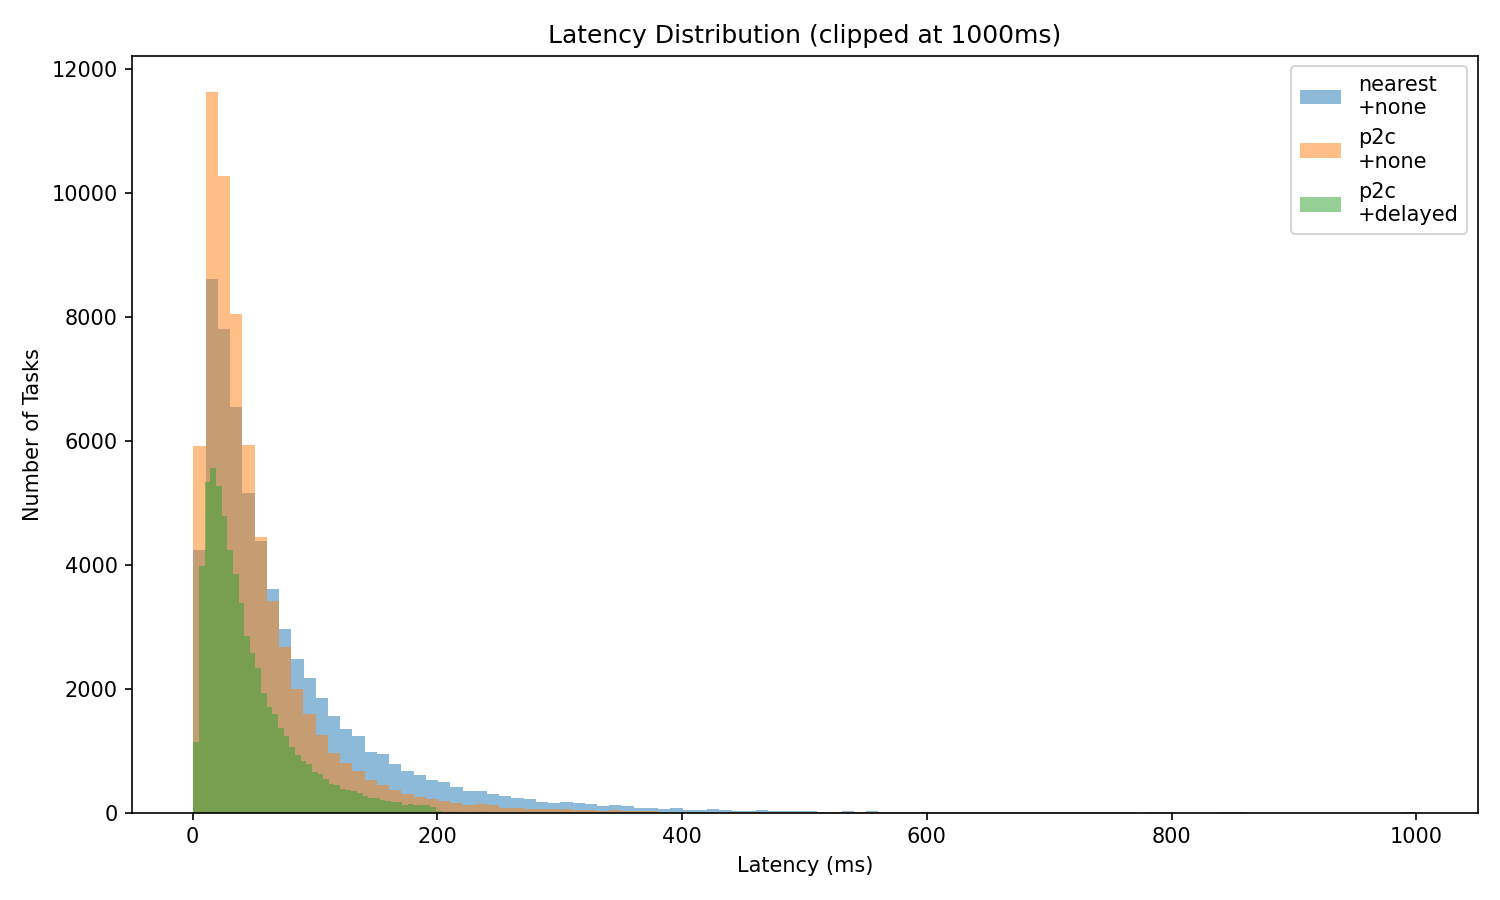
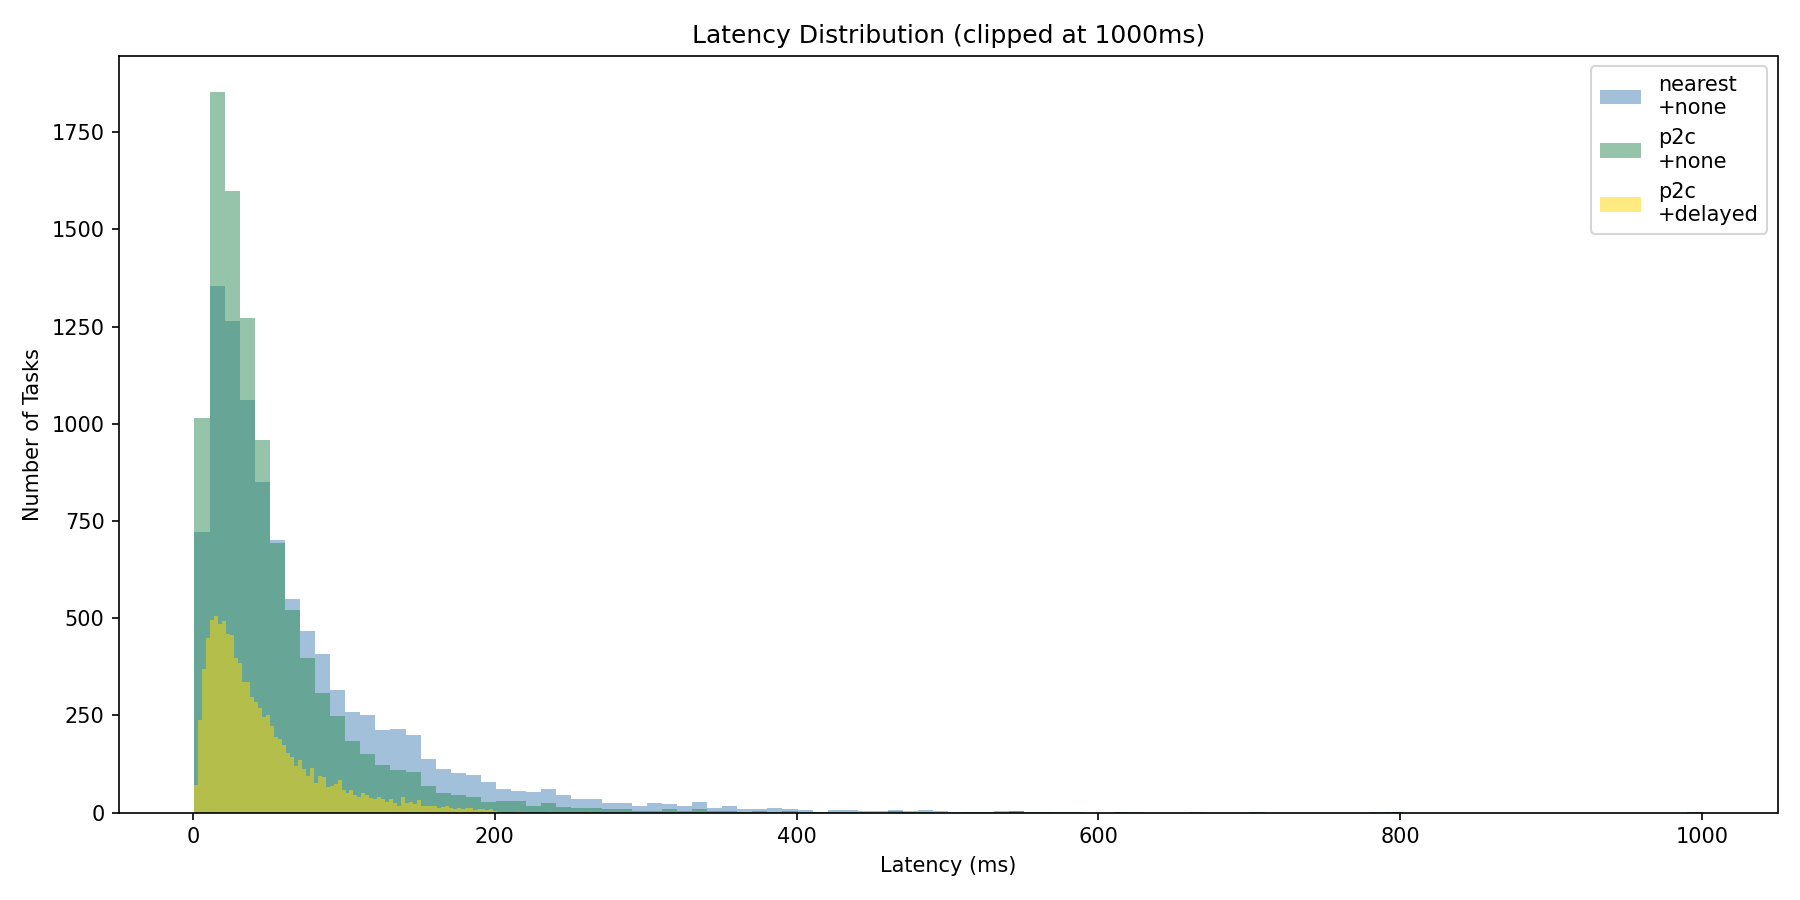
changes + more charts and stuff

diff --git a/simulation.py b/simulation.py
@@ -9,18 +9,16 @@ np.random.seed(42)
 
 # Load dataset
 df = pd.read_csv("/home/hp/edgeproject/data.csv", sep=",", engine="python")
+df = df.head(10000)
 print(f"Loaded {len(df)} tasks")
 
 # Define edge nodes
 NUM_NODES = 10
-WORKERS_PER_NODE = 2  # each node can process 5 tasks concurrently
+WORKERS_PER_NODE = 2
 
 def make_nodes():
     return {
-        f"node-{i}": {
-            "id": f"node-{i}",
-            "slots": [0.0] * WORKERS_PER_NODE  # each slot tracks when it's free
-        }
+        f"node-{i}": {"id": f"node-{i}", "slots": [0.0] * WORKERS_PER_NODE}
         for i in range(NUM_NODES)
     }
 
@@ -32,71 +30,14 @@ def get_processing_time():
     return np.random.lognormal(mean=3.5, sigma=0.9)
 
 def assign_to_node(node, arrival):
-    # pick the slot that's free earliest
     slot_idx = int(np.argmin(node["slots"]))
     start_time = max(arrival, node["slots"][slot_idx])
-    proc_time = get_processing_time()
-    finish = start_time + proc_time
+    finish = start_time + get_processing_time()
     node["slots"][slot_idx] = finish
     return finish
 
 def get_node_load(node):
-    # load = earliest time any slot is free
     return min(node["slots"])
-
-# -------- ML TRAINING -------------------------------
-def generate_training_data(df):
-    nodes = make_nodes()
-    training_data = []
-
-    for _, task in df.iterrows():
-        arrival = task["arrival_ms"]
-        deadline = task["deadline_ms"]
-
-        # get chosen node via p2c
-        sample = random.sample(list(nodes.keys()), 2)
-        chosen = min(sample, key=lambda n: get_node_load(nodes[n]))
-
-        # record cluster state BEFORE assigning
-        avg_load = np.mean([get_node_load(nodes[n]) for n in nodes])
-        chosen_load = get_node_load(nodes[chosen])
-
-        # simulate single replica
-        node = nodes[chosen]
-        slot_idx = int(np.argmin(node["slots"]))
-        start_time = max(arrival, node["slots"][slot_idx])
-        proc_time = get_processing_time()
-        finish_single = start_time + proc_time
-        node["slots"][slot_idx] = finish_single
-
-        latency_single = finish_single - arrival
-        sla_violated_single = latency_single > deadline
-
-        # label: would a second replica have helped?
-        # try a second node
-        others = [n for n in nodes if n != chosen]
-        second = min(others, key=lambda n: get_node_load(nodes[n]))
-        node2 = nodes[second]
-        slot_idx2 = int(np.argmin(node2["slots"]))
-        start_time2 = max(arrival, node2["slots"][slot_idx2])
-        proc_time2 = get_processing_time()
-        finish_second = start_time2 + proc_time2
-
-        # label = 1 if second replica would have finished faster and saved the SLA
-        best_finish = min(finish_single, finish_second)
-        latency_best = best_finish - arrival
-        label = 1 if latency_single > 200 else 0
-
-        training_data.append({
-            "avg_load": avg_load,
-            "chosen_load": chosen_load,
-            "arrival": arrival,
-            "latency_single": latency_single,
-            "sla_violated": int(sla_violated_single),
-            "label": label
-        })
-
-    return pd.DataFrame(training_data)
 
 # ── SIMULATION CORE ──────────────────────────────────────────────────────────
 
@@ -108,15 +49,12 @@ def simulate(df, placement="nearest", redundancy="none"):
         arrival = task["arrival_ms"]
         deadline = task["deadline_ms"]
 
-        # --- Placement decision ---
         if placement == "nearest":
             chosen = get_nearest_node(task["device_id"])
-
         elif placement == "p2c":
             sample = random.sample(list(nodes.keys()), 2)
             chosen = min(sample, key=lambda n: get_node_load(nodes[n]))
 
-        # --- Redundancy decision & execution ---
         if redundancy == "none":
             finish_times = [assign_to_node(nodes[chosen], arrival)]
 
@@ -135,15 +73,12 @@ def simulate(df, placement="nearest", redundancy="none"):
                 hedge = min(others, key=lambda n: get_node_load(nodes[n]))
                 finish_times.append(assign_to_node(nodes[hedge], arrival))
 
-        # First finish wins
         actual_finish = min(finish_times)
         latency = actual_finish - arrival
-        sla_violated = latency > deadline
-
         results.append({
             "req_id": task["req_id"],
             "latency_ms": latency,
-            "sla_violated": sla_violated,
+            "sla_violated": latency > deadline,
             "replicas": len(finish_times)
         })
 
@@ -152,17 +87,23 @@ def simulate(df, placement="nearest", redundancy="none"):
 # ── RUN ALL SCENARIOS ─────────────────────────────────────────────────────────
 
 scenarios = [
-    ("nearest", "none"),
-    ("p2c",     "none"),
-    ("p2c",     "fixed2"),
-    ("p2c",     "delayed"),
-    ("nearest", "fixed2"),
+    ("nearest", "none",   "nearest\n+none"),
+    ("p2c",     "none",   "p2c\n+none"),
+    ("p2c",     "fixed2", "p2c\n+fixed2"),
+    ("p2c",     "delayed","p2c\n+delayed"),
 ]
+
+all_results = {}
+labels = []
+p95_values = []
+p99_values = []
+violation_pcts = []
+avg_replica_values = []
 
 print(f"\n{'Scenario':<30} {'P95':>10} {'P99':>10} {'SLA Violations':>15} {'Avg Replicas':>13}")
 print("-" * 80)
 
-for placement, redundancy in scenarios:
+for placement, redundancy, label in scenarios:
     random.seed(42)
     np.random.seed(42)
     results = simulate(df, placement=placement, redundancy=redundancy)
@@ -171,57 +112,39 @@ for placement, redundancy in scenarios:
     violations = results["sla_violated"].sum()
     violation_pct = results["sla_violated"].mean() * 100
     avg_replicas = results["replicas"].mean()
-    label = f"{placement} + {redundancy}"
-    print(f"{label:<30} {p95:>10.2f} {p99:>10.2f} {violations:>8} ({violation_pct:>4.1f}%) {avg_replicas:>13.2f}")
 
-# ── COLLECT ALL RESULTS ───────────────────────────────────────────────────────
-
-scenarios = [
-    ("nearest", "none"),
-    ("p2c",     "none"),
-    ("p2c",     "fixed2"),
-    ("p2c",     "delayed"),
-]
-
-labels = []
-p95_values = []
-p99_values = []
-violation_pcts = []
-all_results = {}
-
-for placement, redundancy in scenarios:
-    random.seed(42)
-    np.random.seed(42)
-    results = simulate(df, placement=placement, redundancy=redundancy)
-    label = f"{placement}\n+{redundancy}"
-    labels.append(label)
-    p95_values.append(results["latency_ms"].quantile(0.95))
-    p99_values.append(results["latency_ms"].quantile(0.99))
-    violation_pcts.append(results["sla_violated"].mean() * 100)
     all_results[label] = results
+    labels.append(label)
+    p95_values.append(p95)
+    p99_values.append(p99)
+    violation_pcts.append(violation_pct)
+    avg_replica_values.append(avg_replicas)
+
+    print(f"{label.replace(chr(10), ' '):<30} {p95:>10.2f} {p99:>10.2f} "
+          f"{violations:>8} ({violation_pct:>4.1f}%) {avg_replicas:>13.2f}")
 
 # ── CHART 1: P95 AND P99 LATENCY ─────────────────────────────────────────────
 
 x = np.arange(len(labels))
 width = 0.35
-
-fig, ax = plt.subplots(figsize=(10, 6))
-bars1 = ax.bar(x - width/2, p95_values, width, label="P95 Latency", color="steelblue")
-bars2 = ax.bar(x + width/2, p99_values, width, label="P99 Latency", color="tomato")
+fig, ax = plt.subplots(figsize=(12, 6))
+ax.bar(x - width/2, p95_values, width, label="P95 Latency", color="yellow")
+ax.bar(x + width/2, p99_values, width, label="P99 Latency", color="green")
 ax.set_ylabel("Latency (ms)")
 ax.set_title("P95 and P99 Latency by Strategy")
 ax.set_xticks(x)
 ax.set_xticklabels(labels)
 ax.legend()
-ax.set_yscale("log")  # log scale so fixed2 doesn't dwarf everything
+ax.set_yscale("log")
 plt.tight_layout()
 plt.savefig("/home/hp/edgeproject/chart_latency.png", dpi=150)
 print("Saved chart_latency.png")
 
 # ── CHART 2: SLA VIOLATION RATE ──────────────────────────────────────────────
 
-fig, ax = plt.subplots(figsize=(10, 6))
-bars = ax.bar(labels, violation_pcts, color=["steelblue", "seagreen", "tomato", "gold"])
+fig, ax = plt.subplots(figsize=(12, 6))
+bars = ax.bar(labels, violation_pcts,
+              color=["steelblue", "seagreen", "tomato", "gold"])
 ax.set_ylabel("SLA Violation Rate (%)")
 ax.set_title("SLA Violation Rate by Strategy")
 for bar, val in zip(bars, violation_pcts):
@@ -233,11 +156,14 @@ print("Saved chart_sla.png")
 
 # ── CHART 3: LATENCY DISTRIBUTION ────────────────────────────────────────────
 
-fig, ax = plt.subplots(figsize=(10, 6))
+fig, ax = plt.subplots(figsize=(12, 6))
+colors = ["steelblue", "seagreen", "gold"]
+color_idx = 0
 for label, results in all_results.items():
-    if "fixed2" not in label:  # skip fixed2 for distribution chart
-        clipped = results["latency_ms"].clip(upper=1000)
-        ax.hist(clipped, bins=100, alpha=0.5, label=label)
+    if "fixed2" not in label:
+        ax.hist(results["latency_ms"].clip(upper=1000), bins=100,
+                alpha=0.5, label=label, color=colors[color_idx])
+        color_idx += 1
 ax.set_xlabel("Latency (ms)")
 ax.set_ylabel("Number of Tasks")
 ax.set_title("Latency Distribution (clipped at 1000ms)")
@@ -246,10 +172,45 @@ plt.tight_layout()
 plt.savefig("/home/hp/edgeproject/chart_distribution.png", dpi=150)
 print("Saved chart_distribution.png")
 
-# Generate training data
-print("\nGenerating training data...")
-random.seed(42)
-np.random.seed(42)
-train_df = generate_training_data(df)
-print(f"Training data shape: {train_df.shape}")
-print(f"Label distribution: {train_df['label'].value_counts().to_dict()}")
+# ── CHART 4: AVERAGE REPLICAS (RESOURCE COST) ────────────────────────────────
+
+fig, ax = plt.subplots(figsize=(12, 6))
+bars = ax.bar(labels, avg_replica_values,
+              color=["steelblue", "seagreen", "tomato", "gold"])
+ax.set_ylabel("Average Replicas per Task")
+ax.set_title("Resource Cost by Strategy (Avg Replicas)")
+ax.set_ylim(0, 2.5)
+for bar, val in zip(bars, avg_replica_values):
+    ax.text(bar.get_x() + bar.get_width()/2, bar.get_height() + 0.02,
+            f"{val:.2f}", ha="center", va="bottom", fontsize=10)
+plt.tight_layout()
+plt.savefig("/home/hp/edgeproject/chart_replicas.png", dpi=150)
+print("Saved chart_replicas.png")
+
+# ── CHART 5: P99 VS SLA VIOLATIONS COMBINED ──────────────────────────────────
+
+filtered = [(l, p, v) for l, p, v in zip(labels, p99_values, violation_pcts)
+            if "fixed2" not in l]
+f_labels, f_p99, f_viol = zip(*filtered)
+x2 = np.arange(len(f_labels))
+width = 0.35
+
+fig, ax1 = plt.subplots(figsize=(12, 6))
+ax2 = ax1.twinx()
+
+ax1.bar(x2 - width/2, f_p99, width, color="steelblue", label="P99 Latency")
+ax2.bar(x2 + width/2, f_viol, width, color="tomato", alpha=0.7, label="SLA Violation %")
+
+ax1.set_ylabel("P99 Latency (ms)", color="steelblue")
+ax2.set_ylabel("SLA Violation Rate (%)", color="tomato")
+ax1.set_title("P99 Latency vs SLA Violation Rate (excluding fixed2)")
+ax1.set_xticks(x2)
+ax1.set_xticklabels(f_labels)
+
+lines1, labels1 = ax1.get_legend_handles_labels()
+lines2, labels2 = ax2.get_legend_handles_labels()
+ax1.legend(lines1 + lines2, labels1 + labels2, loc="upper right")
+
+plt.tight_layout()
+plt.savefig("/home/hp/edgeproject/chart_p99_vs_sla.png", dpi=150)
+print("Saved chart_p99_vs_sla.png")
